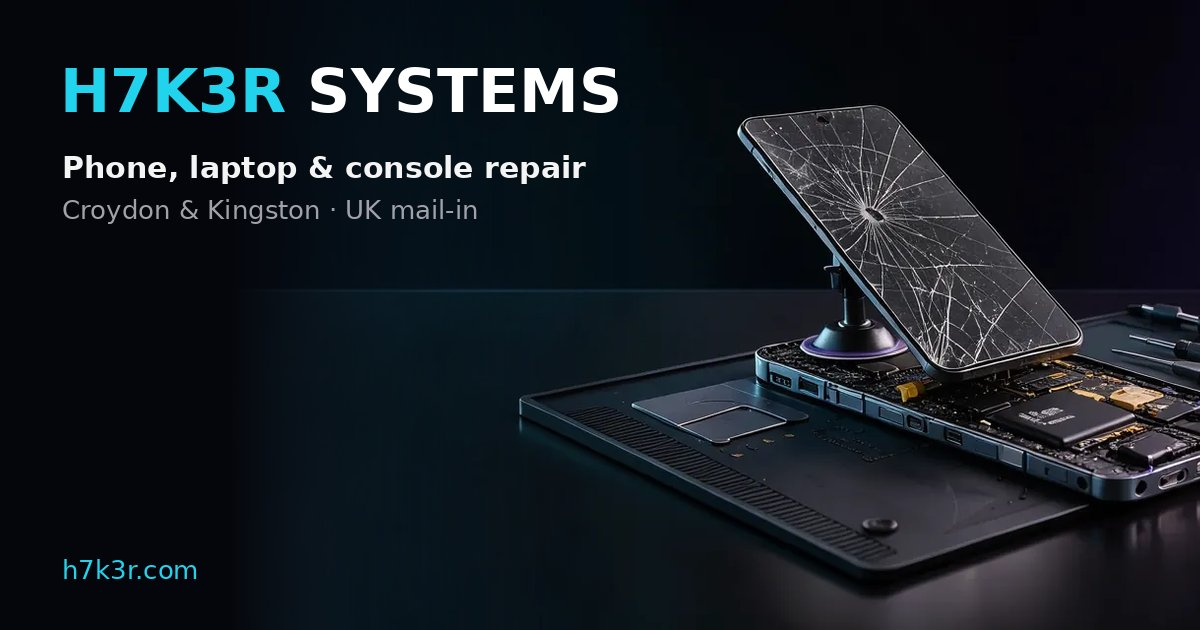
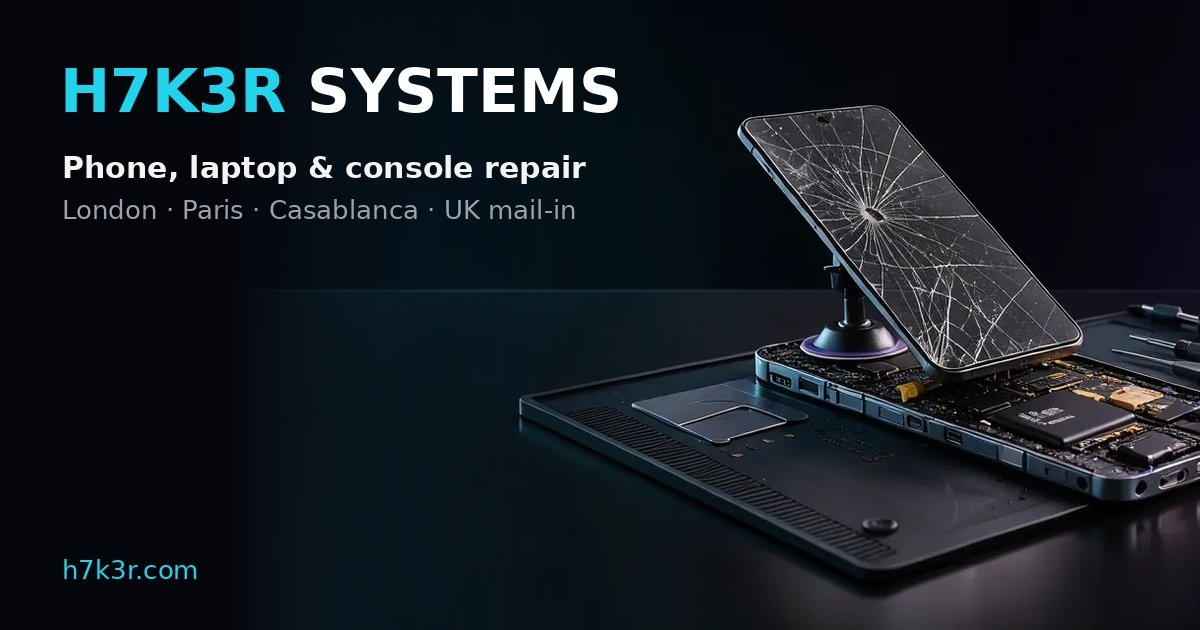
Sharing image: London, Paris and Casablanca instead of Croydon and Kingston
Claude-Session: https://claude.ai/code/session_01EWdS1QG2QYvpagFF1vegUj

Changed region(s): [[0.0617, 0.3016, 0.4933, 0.3619]]

diff --git a/repair/london/index.html b/repair/london/index.html
@@ -12,7 +12,7 @@
 <meta property="og:type" content="website">
 <meta property="og:locale" content="en_GB">
 <meta property="og:site_name" content="H7K3R Systems">
-<meta property="og:image" content="https://h7k3r.com/og-image.jpg">
+<meta property="og:image" content="https://h7k3r.com/og-image.jpg?v=2">
 <meta property="og:image:width" content="1200">
 <meta property="og:image:height" content="630">
 <meta name="twitter:card" content="summary_large_image">
@@ -22,7 +22,7 @@
 <link rel="apple-touch-icon" href="/apple-touch-icon.png">
 <link rel="preconnect" href="https://fonts.googleapis.com"><link rel="preconnect" href="https://fonts.gstatic.com" crossorigin>
 <link href="https://fonts.googleapis.com/css2?family=Orbitron:wght@500;700&family=Inter:wght@400;600;700&family=JetBrains+Mono:wght@400&display=swap" rel="stylesheet">
-<script type="application/ld+json">{"@context": "https://schema.org", "@graph": [{"@type": "LocalBusiness", "@id": "https://h7k3r.com/#business", "name": "H7K3R Systems", "url": "https://h7k3r.com/", "image": "https://h7k3r.com/og-image.jpg", "logo": "https://h7k3r.com/apple-touch-icon.png", "areaServed": [{"@type": "City", "name": "London"}, {"@type": "City", "name": "Paris"}, {"@type": "City", "name": "Casablanca"}, {"@type": "Country", "name": "United Kingdom"}]}, {"@type": "Service", "name": "Phone, laptop, tablet and console repair", "provider": {"@id": "https://h7k3r.com/#business"}, "areaServed": "London", "url": "https://h7k3r.com/repair/london/"}, {"@type": "FAQPage", "mainEntity": [{"@type": "Question", "name": "How fast is a repair?", "acceptedAnswer": {"@type": "Answer", "text": "Cracked screens, dying batteries and broken charging ports are typically completed within 24 to 48 hours. Board-level and data recovery jobs take longer; you get a time frame with your quote."}}, {"@type": "Question", "name": "Do I have to come to a shop?", "acceptedAnswer": {"@type": "Answer", "text": "No. We collect from you or visit you anywhere in London, or you can post the device to us. You get the posting details when you book."}}, {"@type": "Question", "name": "How much will it cost?", "acceptedAnswer": {"@type": "Answer", "text": "Every device and fault is different, so you get a free, fixed quote before any work starts. If you say no, you pay nothing."}}, {"@type": "Question", "name": "Who will repair my device?", "acceptedAnswer": {"@type": "Answer", "text": "The same engineer who ran the repair desk at Game On in Croydon for ten years and trained 670 repair technicians for the WeFix network in France. Your device isn't passed around a chain."}}]}, {"@type": "BreadcrumbList", "itemListElement": [{"@type": "ListItem", "position": 1, "name": "H7K3R Systems", "item": "https://h7k3r.com/"}, {"@type": "ListItem", "position": 2, "name": "Phone & laptop repair in London", "item": "https://h7k3r.com/repair/london/"}]}]}</script>
+<script type="application/ld+json">{"@context": "https://schema.org", "@graph": [{"@type": "LocalBusiness", "@id": "https://h7k3r.com/#business", "name": "H7K3R Systems", "url": "https://h7k3r.com/", "image": "https://h7k3r.com/og-image.jpg?v=2", "logo": "https://h7k3r.com/apple-touch-icon.png", "areaServed": [{"@type": "City", "name": "London"}, {"@type": "City", "name": "Paris"}, {"@type": "City", "name": "Casablanca"}, {"@type": "Country", "name": "United Kingdom"}]}, {"@type": "Service", "name": "Phone, laptop, tablet and console repair", "provider": {"@id": "https://h7k3r.com/#business"}, "areaServed": "London", "url": "https://h7k3r.com/repair/london/"}, {"@type": "FAQPage", "mainEntity": [{"@type": "Question", "name": "How fast is a repair?", "acceptedAnswer": {"@type": "Answer", "text": "Cracked screens, dying batteries and broken charging ports are typically completed within 24 to 48 hours. Board-level and data recovery jobs take longer; you get a time frame with your quote."}}, {"@type": "Question", "name": "Do I have to come to a shop?", "acceptedAnswer": {"@type": "Answer", "text": "No. We collect from you or visit you anywhere in London, or you can post the device to us. You get the posting details when you book."}}, {"@type": "Question", "name": "How much will it cost?", "acceptedAnswer": {"@type": "Answer", "text": "Every device and fault is different, so you get a free, fixed quote before any work starts. If you say no, you pay nothing."}}, {"@type": "Question", "name": "Who will repair my device?", "acceptedAnswer": {"@type": "Answer", "text": "The same engineer who ran the repair desk at Game On in Croydon for ten years and trained 670 repair technicians for the WeFix network in France. Your device isn't passed around a chain."}}]}, {"@type": "BreadcrumbList", "itemListElement": [{"@type": "ListItem", "position": 1, "name": "H7K3R Systems", "item": "https://h7k3r.com/"}, {"@type": "ListItem", "position": 2, "name": "Phone & laptop repair in London", "item": "https://h7k3r.com/repair/london/"}]}]}</script>
 <style>
 :root{--bg:#05060c;--panel:rgba(18,21,34,.72);--line:rgba(120,140,190,.16);--ink:#eef2ff;--muted:#9aa6c4;--cyan:#22d3ee;--violet:#8b74ff}
 *{box-sizing:border-box}html{scroll-behavior:smooth}

diff --git a/data-recovery/index.html b/data-recovery/index.html
@@ -12,7 +12,7 @@
 <meta property="og:type" content="website">
 <meta property="og:locale" content="en_GB">
 <meta property="og:site_name" content="H7K3R Systems">
-<meta property="og:image" content="https://h7k3r.com/og-image.jpg">
+<meta property="og:image" content="https://h7k3r.com/og-image.jpg?v=2">
 <meta property="og:image:width" content="1200">
 <meta property="og:image:height" content="630">
 <meta name="twitter:card" content="summary_large_image">
@@ -22,7 +22,7 @@
 <link rel="apple-touch-icon" href="/apple-touch-icon.png">
 <link rel="preconnect" href="https://fonts.googleapis.com"><link rel="preconnect" href="https://fonts.gstatic.com" crossorigin>
 <link href="https://fonts.googleapis.com/css2?family=Orbitron:wght@500;700&family=Inter:wght@400;600;700&family=JetBrains+Mono:wght@400&display=swap" rel="stylesheet">
-<script type="application/ld+json">{"@context": "https://schema.org", "@graph": [{"@type": "LocalBusiness", "@id": "https://h7k3r.com/#business", "name": "H7K3R Systems", "url": "https://h7k3r.com/", "image": "https://h7k3r.com/og-image.jpg", "logo": "https://h7k3r.com/apple-touch-icon.png", "areaServed": [{"@type": "City", "name": "London"}, {"@type": "City", "name": "Paris"}, {"@type": "City", "name": "Casablanca"}, {"@type": "Country", "name": "United Kingdom"}]}, {"@type": "Service", "name": "Data recovery", "provider": {"@id": "https://h7k3r.com/#business"}, "areaServed": "London, Paris and Casablanca", "url": "https://h7k3r.com/data-recovery/"}, {"@type": "FAQPage", "mainEntity": [{"@type": "Question", "name": "Can you recover data from a phone that won't turn on?", "acceptedAnswer": {"@type": "Answer", "text": "Often, yes. Many dead phones have a board fault rather than dead storage. We repair the board enough to boot it and extract your data."}}, {"@type": "Question", "name": "How much does data recovery cost?", "acceptedAnswer": {"@type": "Answer", "text": "It depends on the fault. You get a diagnosis and a fixed price before any recovery work, so there are no surprises."}}, {"@type": "Question", "name": "Should I try recovery software first?", "acceptedAnswer": {"@type": "Answer", "text": "Not on a clicking or failing drive. Running it can cause more damage. Switch it off and get it looked at."}}, {"@type": "Question", "name": "Do you work with businesses?", "acceptedAnswer": {"@type": "Answer", "text": "Yes. We recover data for sole traders and companies, and can also set up backups so it doesn't happen again."}}]}, {"@type": "BreadcrumbList", "itemListElement": [{"@type": "ListItem", "position": 1, "name": "H7K3R Systems", "item": "https://h7k3r.com/"}, {"@type": "ListItem", "position": 2, "name": "Data recovery for drives and phones others gave up on", "item": "https://h7k3r.com/data-recovery/"}]}]}</script>
+<script type="application/ld+json">{"@context": "https://schema.org", "@graph": [{"@type": "LocalBusiness", "@id": "https://h7k3r.com/#business", "name": "H7K3R Systems", "url": "https://h7k3r.com/", "image": "https://h7k3r.com/og-image.jpg?v=2", "logo": "https://h7k3r.com/apple-touch-icon.png", "areaServed": [{"@type": "City", "name": "London"}, {"@type": "City", "name": "Paris"}, {"@type": "City", "name": "Casablanca"}, {"@type": "Country", "name": "United Kingdom"}]}, {"@type": "Service", "name": "Data recovery", "provider": {"@id": "https://h7k3r.com/#business"}, "areaServed": "London, Paris and Casablanca", "url": "https://h7k3r.com/data-recovery/"}, {"@type": "FAQPage", "mainEntity": [{"@type": "Question", "name": "Can you recover data from a phone that won't turn on?", "acceptedAnswer": {"@type": "Answer", "text": "Often, yes. Many dead phones have a board fault rather than dead storage. We repair the board enough to boot it and extract your data."}}, {"@type": "Question", "name": "How much does data recovery cost?", "acceptedAnswer": {"@type": "Answer", "text": "It depends on the fault. You get a diagnosis and a fixed price before any recovery work, so there are no surprises."}}, {"@type": "Question", "name": "Should I try recovery software first?", "acceptedAnswer": {"@type": "Answer", "text": "Not on a clicking or failing drive. Running it can cause more damage. Switch it off and get it looked at."}}, {"@type": "Question", "name": "Do you work with businesses?", "acceptedAnswer": {"@type": "Answer", "text": "Yes. We recover data for sole traders and companies, and can also set up backups so it doesn't happen again."}}]}, {"@type": "BreadcrumbList", "itemListElement": [{"@type": "ListItem", "position": 1, "name": "H7K3R Systems", "item": "https://h7k3r.com/"}, {"@type": "ListItem", "position": 2, "name": "Data recovery for drives and phones others gave up on", "item": "https://h7k3r.com/data-recovery/"}]}]}</script>
 <style>
 :root{--bg:#05060c;--panel:rgba(18,21,34,.72);--line:rgba(120,140,190,.16);--ink:#eef2ff;--muted:#9aa6c4;--cyan:#22d3ee;--violet:#8b74ff}
 *{box-sizing:border-box}html{scroll-behavior:smooth}

diff --git a/custom-pc/index.html b/custom-pc/index.html
@@ -12,7 +12,7 @@
 <meta property="og:type" content="website">
 <meta property="og:locale" content="en_GB">
 <meta property="og:site_name" content="H7K3R Systems">
-<meta property="og:image" content="https://h7k3r.com/og-image.jpg">
+<meta property="og:image" content="https://h7k3r.com/og-image.jpg?v=2">
 <meta property="og:image:width" content="1200">
 <meta property="og:image:height" content="630">
 <meta name="twitter:card" content="summary_large_image">
@@ -22,7 +22,7 @@
 <link rel="apple-touch-icon" href="/apple-touch-icon.png">
 <link rel="preconnect" href="https://fonts.googleapis.com"><link rel="preconnect" href="https://fonts.gstatic.com" crossorigin>
 <link href="https://fonts.googleapis.com/css2?family=Orbitron:wght@500;700&family=Inter:wght@400;600;700&family=JetBrains+Mono:wght@400&display=swap" rel="stylesheet">
-<script type="application/ld+json">{"@context": "https://schema.org", "@graph": [{"@type": "LocalBusiness", "@id": "https://h7k3r.com/#business", "name": "H7K3R Systems", "url": "https://h7k3r.com/", "image": "https://h7k3r.com/og-image.jpg", "logo": "https://h7k3r.com/apple-touch-icon.png", "areaServed": [{"@type": "City", "name": "London"}, {"@type": "City", "name": "Paris"}, {"@type": "City", "name": "Casablanca"}, {"@type": "Country", "name": "United Kingdom"}]}, {"@type": "Service", "name": "Custom PC building", "provider": {"@id": "https://h7k3r.com/#business"}, "areaServed": "London", "url": "https://h7k3r.com/custom-pc/"}, {"@type": "FAQPage", "mainEntity": [{"@type": "Question", "name": "Why not just buy a prebuilt PC?", "acceptedAnswer": {"@type": "Answer", "text": "Prebuilts often save money on the parts you don't see: power supply, motherboard and cooling. We pick every part for your use and tune it."}}, {"@type": "Question", "name": "Can I bring my own parts?", "acceptedAnswer": {"@type": "Answer", "text": "Yes. We'll build with them, check everything works together and tell you honestly if a part is holding the system back."}}, {"@type": "Question", "name": "Do you upgrade existing PCs?", "acceptedAnswer": {"@type": "Answer", "text": "Yes: graphics cards, storage, memory, cooling, and full rebuilds into a new case."}}, {"@type": "Question", "name": "Is the build tested?", "acceptedAnswer": {"@type": "Answer", "text": "Every PC is stress-tested and checked for temperatures and stability before it is handed over."}}]}, {"@type": "BreadcrumbList", "itemListElement": [{"@type": "ListItem", "position": 1, "name": "H7K3R Systems", "item": "https://h7k3r.com/"}, {"@type": "ListItem", "position": 2, "name": "Custom gaming PCs, built by hand in London", "item": "https://h7k3r.com/custom-pc/"}]}]}</script>
+<script type="application/ld+json">{"@context": "https://schema.org", "@graph": [{"@type": "LocalBusiness", "@id": "https://h7k3r.com/#business", "name": "H7K3R Systems", "url": "https://h7k3r.com/", "image": "https://h7k3r.com/og-image.jpg?v=2", "logo": "https://h7k3r.com/apple-touch-icon.png", "areaServed": [{"@type": "City", "name": "London"}, {"@type": "City", "name": "Paris"}, {"@type": "City", "name": "Casablanca"}, {"@type": "Country", "name": "United Kingdom"}]}, {"@type": "Service", "name": "Custom PC building", "provider": {"@id": "https://h7k3r.com/#business"}, "areaServed": "London", "url": "https://h7k3r.com/custom-pc/"}, {"@type": "FAQPage", "mainEntity": [{"@type": "Question", "name": "Why not just buy a prebuilt PC?", "acceptedAnswer": {"@type": "Answer", "text": "Prebuilts often save money on the parts you don't see: power supply, motherboard and cooling. We pick every part for your use and tune it."}}, {"@type": "Question", "name": "Can I bring my own parts?", "acceptedAnswer": {"@type": "Answer", "text": "Yes. We'll build with them, check everything works together and tell you honestly if a part is holding the system back."}}, {"@type": "Question", "name": "Do you upgrade existing PCs?", "acceptedAnswer": {"@type": "Answer", "text": "Yes: graphics cards, storage, memory, cooling, and full rebuilds into a new case."}}, {"@type": "Question", "name": "Is the build tested?", "acceptedAnswer": {"@type": "Answer", "text": "Every PC is stress-tested and checked for temperatures and stability before it is handed over."}}]}, {"@type": "BreadcrumbList", "itemListElement": [{"@type": "ListItem", "position": 1, "name": "H7K3R Systems", "item": "https://h7k3r.com/"}, {"@type": "ListItem", "position": 2, "name": "Custom gaming PCs, built by hand in London", "item": "https://h7k3r.com/custom-pc/"}]}]}</script>
 <style>
 :root{--bg:#05060c;--panel:rgba(18,21,34,.72);--line:rgba(120,140,190,.16);--ink:#eef2ff;--muted:#9aa6c4;--cyan:#22d3ee;--violet:#8b74ff}
 *{box-sizing:border-box}html{scroll-behavior:smooth}

diff --git a/fr/index.html b/fr/index.html
@@ -8,7 +8,7 @@
 <link rel="alternate" hreflang="en" href="https://h7k3r.com/">
 <link rel="alternate" hreflang="fr" href="https://h7k3r.com/fr/">
 <link rel="alternate" hreflang="x-default" href="https://h7k3r.com/">
-    <script type="application/ld+json">{"@context": "https://schema.org", "@type": "LocalBusiness", "@id": "https://h7k3r.com/#business", "name": "H7K3R Systems", "url": "https://h7k3r.com/", "image": "https://h7k3r.com/og-image.jpg", "logo": "https://h7k3r.com/apple-touch-icon.png", "description": "Phone, laptop and console repair, data recovery, custom PCs and privacy gear in London, Paris and Casablanca.", "areaServed": [{"@type": "City", "name": "London"}, {"@type": "City", "name": "Paris"}, {"@type": "City", "name": "Casablanca"}, {"@type": "Country", "name": "United Kingdom"}]}</script>
+    <script type="application/ld+json">{"@context": "https://schema.org", "@type": "LocalBusiness", "@id": "https://h7k3r.com/#business", "name": "H7K3R Systems", "url": "https://h7k3r.com/", "image": "https://h7k3r.com/og-image.jpg?v=2", "logo": "https://h7k3r.com/apple-touch-icon.png", "description": "Phone, laptop and console repair, data recovery, custom PCs and privacy gear in London, Paris and Casablanca.", "areaServed": [{"@type": "City", "name": "London"}, {"@type": "City", "name": "Paris"}, {"@type": "City", "name": "Casablanca"}, {"@type": "Country", "name": "United Kingdom"}]}</script>
     <link rel="icon" href="favicon.svg" type="image/svg+xml">
     <link rel="icon" href="favicon-32.png" sizes="32x32" type="image/png">
     <link rel="apple-touch-icon" href="apple-touch-icon.png">
@@ -20,7 +20,7 @@
     <meta property="og:description" content="Récupéré chez vous à Londres, Paris et Casablanca, ou envoyé par la poste de tout le Royaume-Uni. Devis fixe et gratuit avant toute intervention.">
     <meta property="og:url" content="https://h7k3r.com/fr/">
     <meta property="og:locale" content="fr_FR">
-    <meta property="og:image" content="https://h7k3r.com/og-image.jpg">
+    <meta property="og:image" content="https://h7k3r.com/og-image.jpg?v=2">
     <meta property="og:image:width" content="1200">
     <meta property="og:image:height" content="630">
     <meta property="og:image:alt" content="H7K3R Systems : réparation de téléphones, PC portables et consoles à Londres, Paris et Casablanca">

diff --git a/index.html b/index.html
@@ -7,7 +7,7 @@
 <link rel="alternate" hreflang="en" href="https://h7k3r.com/">
 <link rel="alternate" hreflang="fr" href="https://h7k3r.com/fr/">
 <link rel="alternate" hreflang="x-default" href="https://h7k3r.com/">
-    <script type="application/ld+json">{"@context": "https://schema.org", "@type": "LocalBusiness", "@id": "https://h7k3r.com/#business", "name": "H7K3R Systems", "url": "https://h7k3r.com/", "image": "https://h7k3r.com/og-image.jpg", "logo": "https://h7k3r.com/apple-touch-icon.png", "description": "Phone, laptop and console repair, data recovery, custom PCs and privacy gear in London, Paris and Casablanca.", "areaServed": [{"@type": "City", "name": "London"}, {"@type": "City", "name": "Paris"}, {"@type": "City", "name": "Casablanca"}, {"@type": "Country", "name": "United Kingdom"}]}</script>
+    <script type="application/ld+json">{"@context": "https://schema.org", "@type": "LocalBusiness", "@id": "https://h7k3r.com/#business", "name": "H7K3R Systems", "url": "https://h7k3r.com/", "image": "https://h7k3r.com/og-image.jpg?v=2", "logo": "https://h7k3r.com/apple-touch-icon.png", "description": "Phone, laptop and console repair, data recovery, custom PCs and privacy gear in London, Paris and Casablanca.", "areaServed": [{"@type": "City", "name": "London"}, {"@type": "City", "name": "Paris"}, {"@type": "City", "name": "Casablanca"}, {"@type": "Country", "name": "United Kingdom"}]}</script>
     <link rel="icon" href="favicon.svg" type="image/svg+xml">
     <link rel="icon" href="favicon-32.png" sizes="32x32" type="image/png">
     <link rel="apple-touch-icon" href="apple-touch-icon.png">
@@ -19,7 +19,7 @@
     <meta property="og:description" content="Collected from your door across London, or posted in from anywhere in the UK. Now also in Paris and Casablanca. Free fixed quote before any work.">
     <meta property="og:url" content="https://h7k3r.com/">
     <meta property="og:locale" content="en_GB">
-    <meta property="og:image" content="https://h7k3r.com/og-image.jpg">
+    <meta property="og:image" content="https://h7k3r.com/og-image.jpg?v=2">
     <meta property="og:image:width" content="1200">
     <meta property="og:image:height" content="630">
     <meta property="og:image:alt" content="H7K3R Systems: phone, laptop and console repair in London, Paris and Casablanca">
